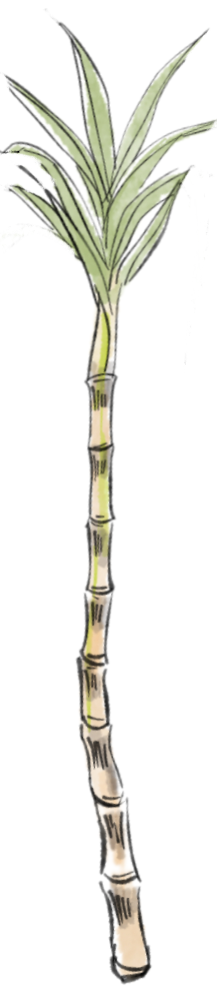
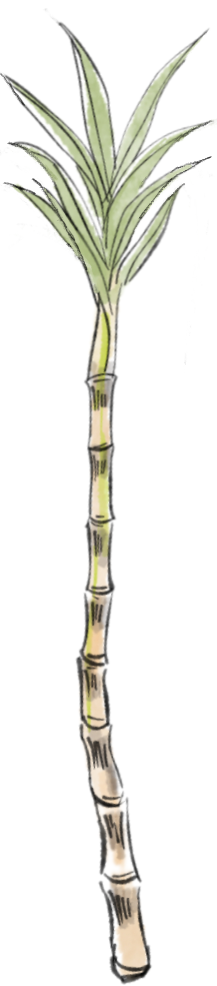
clean up cane illustration

Changed region(s): [[0.0, 0.0913, 0.4147, 0.2738], [0.6083, 0.1217, 0.9954, 0.2434], [0.0, 0.0609, 0.0553, 0.0913]]

diff --git a/docs/sugar-cane-water/intro.html b/docs/sugar-cane-water/intro.html
@@ -46,14 +46,14 @@
 <main class="svelte-ipu353">
 <div class="wrapper svelte-spxpjq">
 <div class="wrapper svelte-va0idu"><div class="slide-content svelte-va0idu" style="background-image: url(/chi-fan/img/sugar-cane-water/canes-background.png);"><p class="progress svelte-va0idu">Progress: 0 / 3</p>
-    <div class="items-container svelte-1f1sr5x"><div class="item-wrapper svelte-1f1sr5x" style="left: 40%; bottom: 7.1423633494648175%"><div class="wrapper svelte-5gdabs" style="background-image: url(/chi-fan/img/sugar-cane-water/cane.png); transform: rotate(-5.9938279941784245deg) scale(1.2587002302944312) scaleX(-1);"></div>
-      </div><div class="item-wrapper svelte-1f1sr5x" style="left: 69%; bottom: 14.174888643748659%"><div class="wrapper svelte-5gdabs" style="background-image: url(/chi-fan/img/sugar-cane-water/cane.png); transform: rotate(-3.546884640127015deg) scale(1.2256881340590393) scaleX(-1);"></div>
-      </div><div class="item-wrapper svelte-1f1sr5x" style="left: 12%; bottom: 4.023051035419805%"><div class="wrapper svelte-5gdabs" style="background-image: url(/chi-fan/img/sugar-cane-water/cane.png); transform: rotate(3.673390977591282deg) scale(1.2849067408920651) scaleX(-1);"></div>
-      </div><div class="item-wrapper svelte-1f1sr5x" style="left: 54%; bottom: 8.538411708755467%"><div class="wrapper svelte-5gdabs" style="background-image: url(/chi-fan/img/sugar-cane-water/cane.png); transform: rotate(-2.9981645947401425deg) scale(1.2858938340429322) scaleX(-1);"></div>
-      </div><div class="item-wrapper svelte-1f1sr5x" style="left: 10%; bottom: 4.19637804235332%"><div class="wrapper svelte-5gdabs" style="background-image: url(/chi-fan/img/sugar-cane-water/cane.png); transform: rotate(-3.7856662632359805deg) scale(1.1403766341352883) scaleX(-1);"></div>
-      </div><div class="item-wrapper svelte-1f1sr5x" style="left: 62%; bottom: 9.795372032970162%"><div class="wrapper svelte-5gdabs" style="background-image: url(/chi-fan/img/sugar-cane-water/cane.png); transform: rotate(-3.844666850967653deg) scale(1.0093063336538421) scaleX(1);"></div>
-      </div><div class="item-wrapper svelte-1f1sr5x" style="left: 15%; bottom: 9.022007016131251%"><div class="wrapper svelte-5gdabs" style="background-image: url(/chi-fan/img/sugar-cane-water/cane.png); transform: rotate(1.9335737800374488deg) scale(1.275365524738509) scaleX(1);"></div>
-      </div><div class="item-wrapper svelte-1f1sr5x" style="left: 79%; bottom: 7.830981576364223%"><div class="wrapper svelte-5gdabs" style="background-image: url(/chi-fan/img/sugar-cane-water/cane.png); transform: rotate(-9.949538589262623deg) scale(1.296951775733814) scaleX(-1);"></div>
+    <div class="items-container svelte-1f1sr5x"><div class="item-wrapper svelte-1f1sr5x" style="left: 40%; bottom: 12.080794070919389%"><div class="wrapper svelte-5gdabs" style="background-image: url(/chi-fan/img/sugar-cane-water/cane.png); transform: rotate(1.8734286694654898deg) scale(1.328384381429967) scaleX(1);"></div>
+      </div><div class="item-wrapper svelte-1f1sr5x" style="left: 69%; bottom: 11.640371260411449%"><div class="wrapper svelte-5gdabs" style="background-image: url(/chi-fan/img/sugar-cane-water/cane.png); transform: rotate(-1.6818781688240136deg) scale(1.291686058820409) scaleX(-1);"></div>
+      </div><div class="item-wrapper svelte-1f1sr5x" style="left: 12%; bottom: 11.191204462866786%"><div class="wrapper svelte-5gdabs" style="background-image: url(/chi-fan/img/sugar-cane-water/cane.png); transform: rotate(3.348706487647073deg) scale(1.3695730465265794) scaleX(1);"></div>
+      </div><div class="item-wrapper svelte-1f1sr5x" style="left: 54%; bottom: 3.1952528304681227%"><div class="wrapper svelte-5gdabs" style="background-image: url(/chi-fan/img/sugar-cane-water/cane.png); transform: rotate(4.110501894039253deg) scale(1.3201156647212442) scaleX(1);"></div>
+      </div><div class="item-wrapper svelte-1f1sr5x" style="left: 10%; bottom: -1.1504284813658838%"><div class="wrapper svelte-5gdabs" style="background-image: url(/chi-fan/img/sugar-cane-water/cane.png); transform: rotate(-3.00759368371021deg) scale(1.3661624198072113) scaleX(1);"></div>
+      </div><div class="item-wrapper svelte-1f1sr5x" style="left: 62%; bottom: -1.8209541092032255%"><div class="wrapper svelte-5gdabs" style="background-image: url(/chi-fan/img/sugar-cane-water/cane.png); transform: rotate(-0.08878013281379182deg) scale(1.3455489418080875) scaleX(1);"></div>
+      </div><div class="item-wrapper svelte-1f1sr5x" style="left: 15%; bottom: 11.769888061070418%"><div class="wrapper svelte-5gdabs" style="background-image: url(/chi-fan/img/sugar-cane-water/cane.png); transform: rotate(3.8842623674445242deg) scale(1.2492278085215118) scaleX(1);"></div>
+      </div><div class="item-wrapper svelte-1f1sr5x" style="left: 79%; bottom: -2.5288930625162065%"><div class="wrapper svelte-5gdabs" style="background-image: url(/chi-fan/img/sugar-cane-water/cane.png); transform: rotate(6.902628176130058deg) scale(1.2394243893686165) scaleX(1);"></div>
       </div></div>
   <div class="follow-mouse svelte-1f1sr5x" style="left: 200px; top:200px;"></div></div>
   <div class="float-bottom-wrapper svelte-vqtwd3"><div class="dialog svelte-vqtwd3"><h3 class="character-name svelte-vqtwd3">Grandpa</h3>
@@ -65,14 +65,14 @@
 </main>
 
 
-		<script type="module" data-sveltekit-hydrate="nj065u">
+		<script type="module" data-sveltekit-hydrate="ki2hih">
 			import { start } from "/chi-fan/_app/immutable/start-d4c8c5fa.js";
 
 			start({
 				env: {},
 				paths: {"base":"/chi-fan","assets":"/chi-fan"},
-				target: document.querySelector('[data-sveltekit-hydrate="nj065u"]').parentNode,
-				version: "1673360874829",
+				target: document.querySelector('[data-sveltekit-hydrate="ki2hih"]').parentNode,
+				version: "1673426688175",
 				hydrate: {
 					node_ids: [0, 6],
 					data: [null,null],

diff --git a/docs/service-worker.js b/docs/service-worker.js
@@ -2,33 +2,33 @@ const h = [
   "/chi-fan/_app/immutable/assets/Button-8ca56c60.css",
   "/chi-fan/_app/immutable/assets/_page-389d1576.css",
   "/chi-fan/_app/immutable/assets/_page-2a5d9d09.css",
-  "/chi-fan/_app/immutable/assets/_page-549026eb.css",
   "/chi-fan/_app/immutable/assets/_layout-a568b42d.css",
   "/chi-fan/_app/immutable/assets/_page-60206d4f.css",
-  "/chi-fan/_app/immutable/chunks/_layout-da46b06b.js",
-  "/chi-fan/_app/immutable/chunks/6-cd1c5b15.js",
-  "/chi-fan/_app/immutable/chunks/paths-b4419565.js",
-  "/chi-fan/_app/immutable/chunks/3-c9b37feb.js",
+  "/chi-fan/_app/immutable/assets/_page-549026eb.css",
   "/chi-fan/_app/immutable/chunks/singletons-df472dcd.js",
-  "/chi-fan/_app/immutable/chunks/stores-e5fde2bb.js",
-  "/chi-fan/_app/immutable/modules/pages/about/_page.ts-08c78b37.js",
-  "/chi-fan/_app/immutable/chunks/0-06ac33ca.js",
-  "/chi-fan/_app/immutable/chunks/5-fbc4c8b2.js",
+  "/chi-fan/_app/immutable/chunks/3-c9b37feb.js",
   "/chi-fan/_app/immutable/modules/pages/_layout.ts-9cbb603b.js",
-  "/chi-fan/_app/immutable/components/pages/about/_page.svelte-380391fc.js",
+  "/chi-fan/_app/immutable/chunks/0-06ac33ca.js",
   "/chi-fan/_app/immutable/components/error.svelte-30d123a6.js",
-  "/chi-fan/_app/immutable/chunks/index-6188c6ed.js",
+  "/chi-fan/_app/immutable/modules/pages/about/_page.ts-08c78b37.js",
   "/chi-fan/_app/immutable/chunks/4-2b790709.js",
   "/chi-fan/_app/immutable/chunks/Button-730b59c7.js",
-  "/chi-fan/_app/immutable/chunks/2-416ecd4d.js",
-  "/chi-fan/_app/immutable/components/pages/_page.svelte-ce97ee2a.js",
-  "/chi-fan/_app/immutable/chunks/_page-3afc52e2.js",
+  "/chi-fan/_app/immutable/chunks/index-6188c6ed.js",
+  "/chi-fan/_app/immutable/chunks/5-fbc4c8b2.js",
+  "/chi-fan/_app/immutable/chunks/6-cd1c5b15.js",
+  "/chi-fan/_app/immutable/components/pages/about/_page.svelte-380391fc.js",
   "/chi-fan/_app/immutable/chunks/1-eaa0f01c.js",
+  "/chi-fan/_app/immutable/chunks/_page-3afc52e2.js",
+  "/chi-fan/_app/immutable/chunks/stores-e5fde2bb.js",
+  "/chi-fan/_app/immutable/chunks/2-416ecd4d.js",
+  "/chi-fan/_app/immutable/chunks/paths-b4419565.js",
   "/chi-fan/_app/immutable/components/pages/doors/_page.svelte-66b00ab9.js",
+  "/chi-fan/_app/immutable/chunks/_layout-da46b06b.js",
   "/chi-fan/_app/immutable/chunks/index-a33fa324.js",
-  "/chi-fan/_app/immutable/components/pages/_layout.svelte-5f1d8405.js",
   "/chi-fan/_app/immutable/start-d4c8c5fa.js",
+  "/chi-fan/_app/immutable/components/pages/_layout.svelte-5f1d8405.js",
   "/chi-fan/_app/immutable/components/pages/sugar-cane-water/_page.svelte-bac8232d.js",
+  "/chi-fan/_app/immutable/components/pages/_page.svelte-ce97ee2a.js",
   "/chi-fan/_app/immutable/components/pages/sugar-cane-water/intro/_page.svelte-cad6e91d.js"
 ], o = [
   "/chi-fan/.nojekyll",
@@ -72,7 +72,7 @@ const h = [
   "/chi-fan/img/sugar-cane-water/washing-cane-dirty.png",
   "/chi-fan/manifest.json",
   "/chi-fan/robots.txt"
-], p = "1673360874829", t = self, g = `cache${p}`, s = h.concat(
+], p = "1673426688175", t = self, g = `cache${p}`, s = h.concat(
   // Exclude this github pages related file, breaks the service worker
   o.filter((a) => a !== "/.nojekyll")
 ), m = new Set(s);

diff --git a/docs/doors.html b/docs/doors.html
@@ -100,7 +100,7 @@
 				env: {},
 				paths: {"base":"/chi-fan","assets":"/chi-fan"},
 				target: document.querySelector('[data-sveltekit-hydrate="b70olt"]').parentNode,
-				version: "1673360874829",
+				version: "1673426688175",
 				hydrate: {
 					node_ids: [0, 4],
 					data: [null,null],

diff --git a/docs/sugar-cane-water.html b/docs/sugar-cane-water.html
@@ -177,7 +177,7 @@
 				env: {},
 				paths: {"base":"/chi-fan","assets":"/chi-fan"},
 				target: document.querySelector('[data-sveltekit-hydrate="ihwqs7"]').parentNode,
-				version: "1673360874829",
+				version: "1673426688175",
 				hydrate: {
 					node_ids: [0, 5],
 					data: [null,null],

diff --git a/docs/index.html b/docs/index.html
@@ -58,7 +58,7 @@
 				env: {},
 				paths: {"base":"/chi-fan","assets":"/chi-fan"},
 				target: document.querySelector('[data-sveltekit-hydrate="14u5m7a"]').parentNode,
-				version: "1673360874829",
+				version: "1673426688175",
 				hydrate: {
 					node_ids: [0, 2],
 					data: [null,null],
